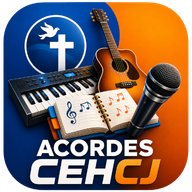
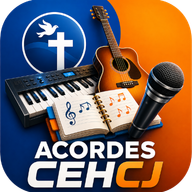
Favoritos y mejoras visuales

diff --git a/src/views/Home.jsx b/src/views/Home.jsx
@@ -75,7 +75,7 @@ function Home() {
           }
           onClick={() => setMostrarFavoritos(false)}
         >
-          ✅ Todas ({canciones.length})
+          🎵 Todas ({canciones.length})
         </button>
 
         <button

diff --git a/vite.config.js b/vite.config.js
@@ -18,7 +18,7 @@ export default defineConfig({
 
       manifest: {
         name: "Acordes CEHCJ",
-        short_name: "Acordes",
+        short_name: "Acordes CEHCJ",
         description: "Letras y acordes de canciones CEHCJ",
 
         theme_color: "#0c055c",